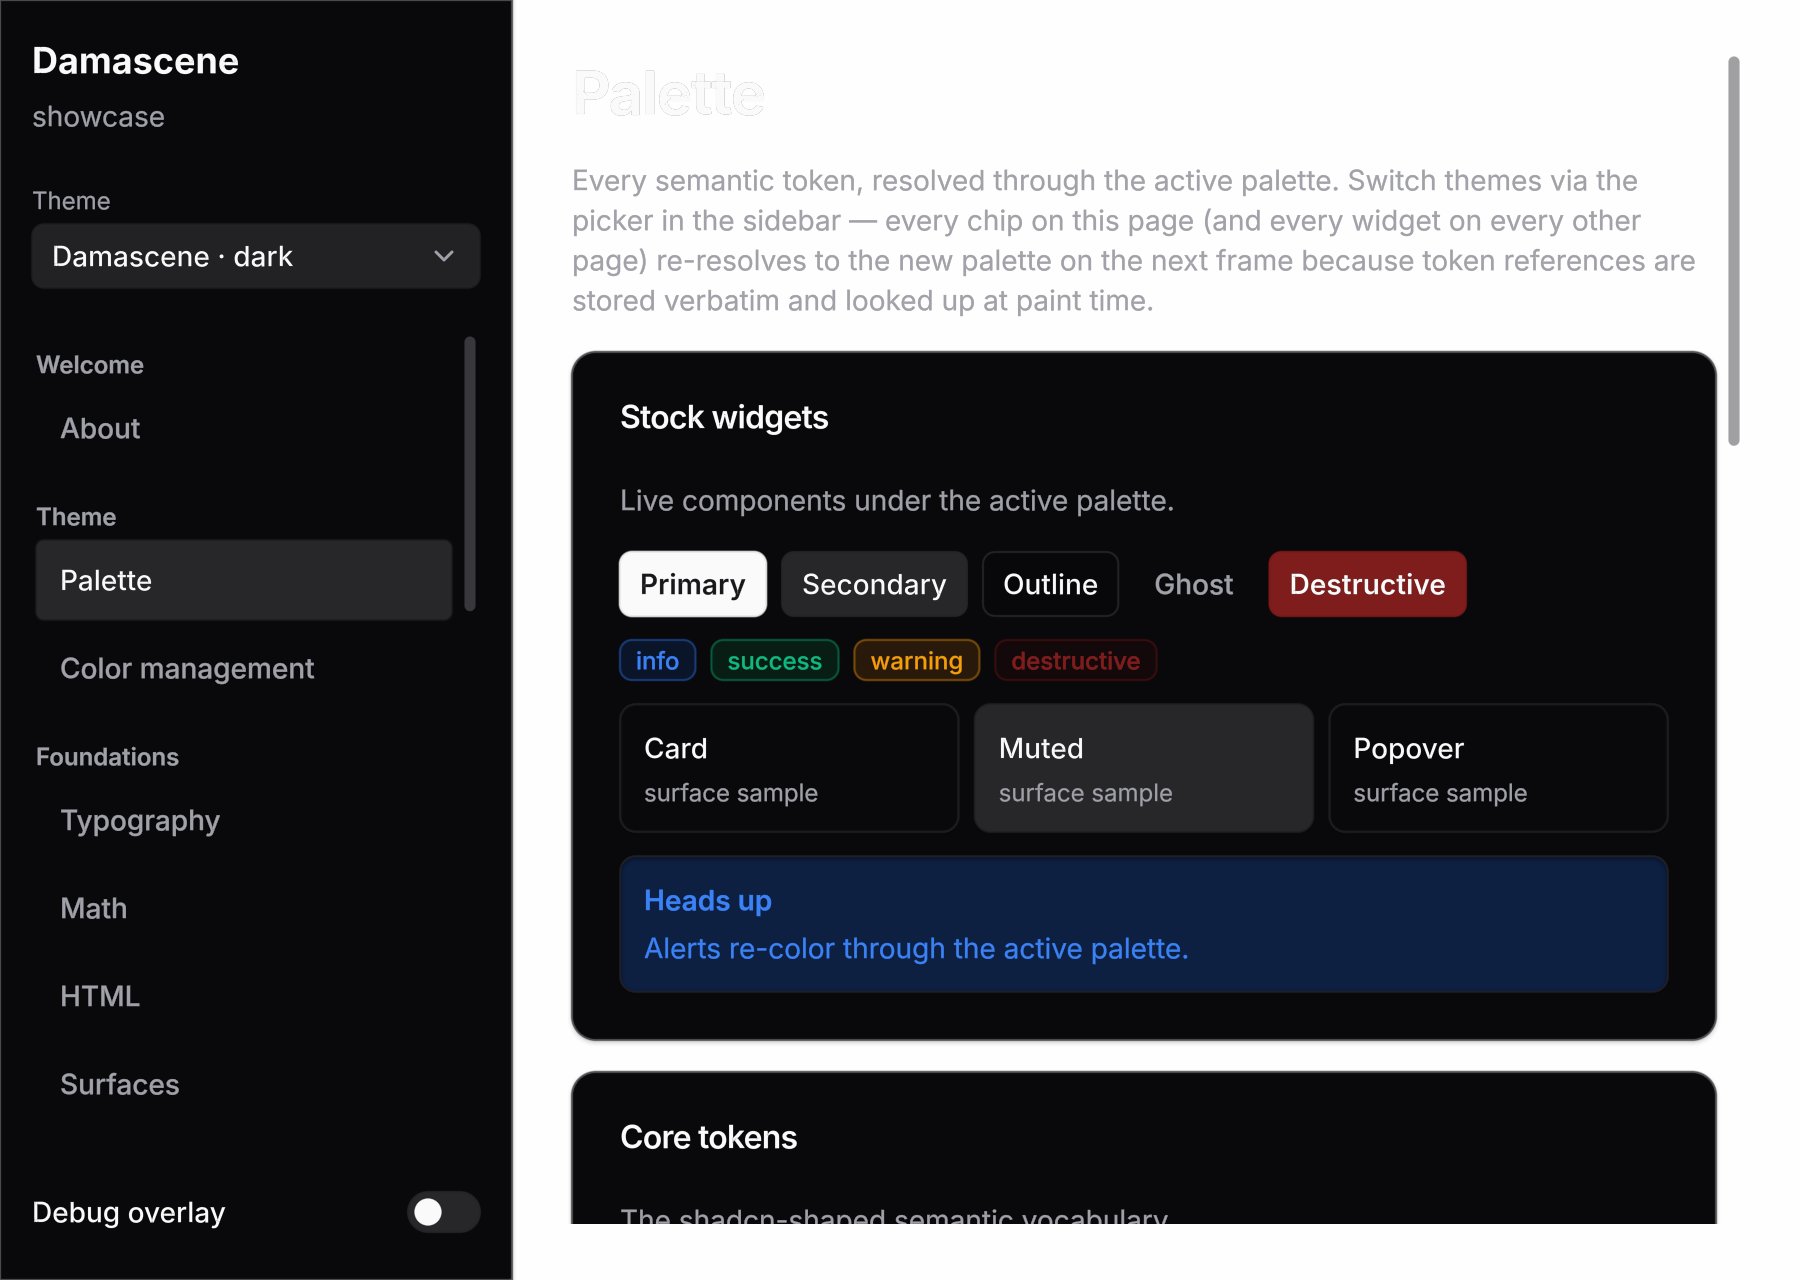
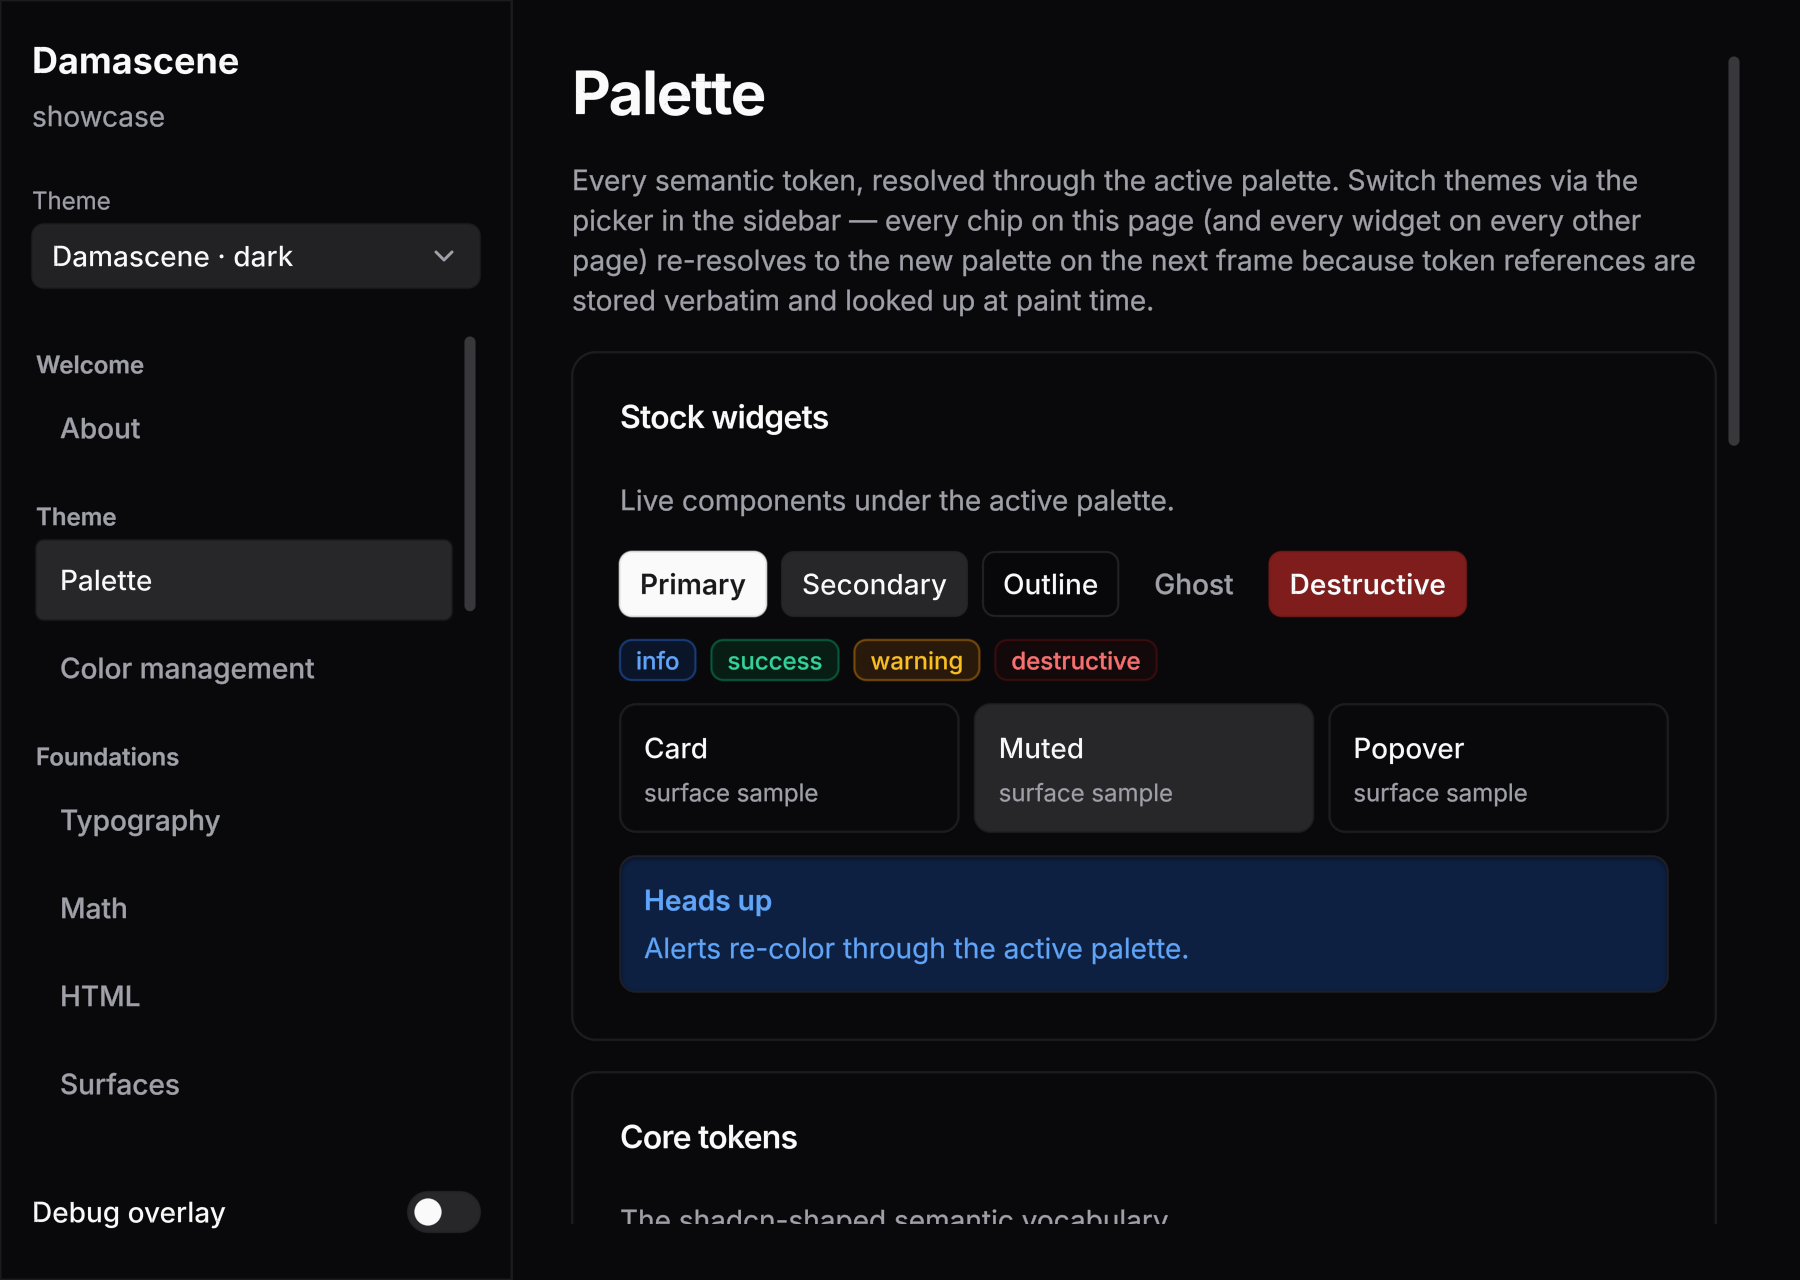
assets: regenerate the gallery from fixed render tools
Every committed render carried a shared tool bug: the clear color
divided Color's 0..1 float channels by 255, producing a transparent
near-black clear (alpha 1/255) — viewers and GitHub composited the
unpainted page ground over white, which is why the gallery images
showed ghost-white headings on a white void. The July asset regen
shipped that look. All eight render tools now use the channels
directly, and the hero/sections tools also hand the runner the app's
theme (set_theme) and clear to the resolved palette background — the
paint-time halves of the host contract they were skipping.

Asset refresh, all regenerated opaque and current:
- showcase_settings.png DELETED — a May render of a section that no
  longer exists, still carrying pre-rename Aetna branding. The
  winit-wgpu and vulkano READMEs now show the Text & value section
  (assets/showcase_text_inputs.png).
- showcase_forms.png → showcase_booleans.png: the root gallery's
  "Form primitives" cell now shows the Booleans section its caption
  actually describes (the Forms section is form_item scaffolding).
- showcase_glass.png → liquid_glass_lab.png: the old image was the
  top of the Surfaces page with the glass card below the fold; the
  gallery and the damascene-wgpu README now show the liquid-glass
  material lab actually doing backdrop sampling.
- showcase_palette.png refreshed (picks up the *_TINT_FOREGROUND
  status tones); damascene_hero.png re-rendered opaque.
[…]

diff --git a/tools/src/bin/render_showcase_sections.rs b/tools/src/bin/render_showcase_sections.rs
@@ -109,6 +109,7 @@ fn main() -> Result<(), Box<dyn std::error::Error>> {
         let theme = app.theme();
         let cx = BuildCx::new(&theme);
         let tree = app.build(&cx);
+        renderer.set_theme(theme.clone());
         renderer.push_toasts(app.drain_toasts());
         renderer.prepare(&device, &queue, tree, viewport, scale_factor);
 
@@ -121,7 +122,7 @@ fn main() -> Result<(), Box<dyn std::error::Error>> {
             &target,
             &target_view,
             Some(&msaa.view),
-            wgpu::LoadOp::Clear(bg_color()),
+            wgpu::LoadOp::Clear(bg_color(theme.palette())),
         );
         encoder.copy_texture_to_buffer(
             wgpu::TexelCopyTextureInfo {
@@ -179,13 +180,20 @@ fn main() -> Result<(), Box<dyn std::error::Error>> {
     Ok(())
 }
 
-fn bg_color() -> wgpu::Color {
-    let c = damascene_core::tokens::BACKGROUND;
+/// Clear to the app theme's background, the way every host does.
+/// (The paint-time half of the same contract is `set_theme` above:
+/// without it the runner resolved token colors against the default
+/// palette, painting the page ground light under the dark theme —
+/// the shipped gallery images had ghost-white headings on a white
+/// void because build-time text colors came from the dark theme
+/// while paint-time token fills resolved light.)
+fn bg_color(palette: &damascene_core::Palette) -> wgpu::Color {
+    let c = palette.resolve(palette.background);
     wgpu::Color {
-        r: srgb_to_linear(c.r as f64 / 255.0),
-        g: srgb_to_linear(c.g as f64 / 255.0),
-        b: srgb_to_linear(c.b as f64 / 255.0),
-        a: c.a as f64 / 255.0,
+        r: srgb_to_linear(c.r as f64),
+        g: srgb_to_linear(c.g as f64),
+        b: srgb_to_linear(c.b as f64),
+        a: c.a as f64,
     }
 }
 

diff --git a/tools/src/bin/render_liquid_glass.rs b/tools/src/bin/render_liquid_glass.rs
@@ -64,6 +64,10 @@ fn fixture() -> El {
             panel(Color::srgb_u8(240, 200, 60)),
         ])
         .gap(0.0)
+        // Hug-width with all-Fill children resolves to zero width
+        // (CSS shrink-to-fit); the backdrop row must claim the
+        // overlay's width explicitly.
+        .width(Size::Fill(1.0))
         .height(Size::Fill(1.0))
         // Stretch lets Fill children claim full cross-axis extent.
         // Without it, the row's default Center align collapses
@@ -75,9 +79,16 @@ fn fixture() -> El {
         // space rather than collapsing to Hug.
         column([
             spacer(),
-            row([spacer(), glass_card(), spacer()]).height(Size::Hug),
+            row([spacer(), glass_card(), spacer()])
+                // Fill width here and on the column: a Hug container
+                // with Fill spacers collapses to its content, which
+                // pins the card to the overlay's top-left instead of
+                // centering it.
+                .width(Size::Fill(1.0))
+                .height(Size::Hug),
             spacer(),
         ])
+        .width(Size::Fill(1.0))
         .height(Size::Fill(1.0)),
     ])
 }
@@ -293,10 +304,10 @@ fn main() -> Result<(), Box<dyn std::error::Error>> {
 fn bg_color() -> wgpu::Color {
     let c = damascene_core::tokens::BACKGROUND;
     wgpu::Color {
-        r: srgb_to_linear(c.r as f64 / 255.0),
-        g: srgb_to_linear(c.g as f64 / 255.0),
-        b: srgb_to_linear(c.b as f64 / 255.0),
-        a: c.a as f64 / 255.0,
+        r: srgb_to_linear(c.r as f64),
+        g: srgb_to_linear(c.g as f64),
+        b: srgb_to_linear(c.b as f64),
+        a: c.a as f64,
     }
 }
 

diff --git a/tools/src/bin/render_hero.rs b/tools/src/bin/render_hero.rs
@@ -75,6 +75,7 @@ fn main() -> Result<(), Box<dyn std::error::Error>> {
     let theme = app.theme();
     let cx = BuildCx::new(&theme);
     let tree = app.build(&cx);
+    renderer.set_theme(theme.clone());
     renderer.prepare(&device, &queue, tree, viewport, scale_factor);
 
     let mut encoder = device.create_command_encoder(&wgpu::CommandEncoderDescriptor {
@@ -159,10 +160,10 @@ fn main() -> Result<(), Box<dyn std::error::Error>> {
 fn bg_color() -> wgpu::Color {
     let c = damascene_core::Palette::radix_slate_blue_dark().background;
     wgpu::Color {
-        r: srgb_to_linear(c.r as f64 / 255.0),
-        g: srgb_to_linear(c.g as f64 / 255.0),
-        b: srgb_to_linear(c.b as f64 / 255.0),
-        a: c.a as f64 / 255.0,
+        r: srgb_to_linear(c.r as f64),
+        g: srgb_to_linear(c.g as f64),
+        b: srgb_to_linear(c.b as f64),
+        a: c.a as f64,
     }
 }
 

diff --git a/tools/src/bin/render_showcase_media.rs b/tools/src/bin/render_showcase_media.rs
@@ -254,10 +254,10 @@ fn hsv_to_rgb(h: f32, s: f32, v: f32) -> (f32, f32, f32) {
 fn bg_color(theme: &Theme) -> wgpu::Color {
     let c = theme.palette().resolve(damascene_core::tokens::BACKGROUND);
     wgpu::Color {
-        r: srgb_to_linear(c.r as f64 / 255.0),
-        g: srgb_to_linear(c.g as f64 / 255.0),
-        b: srgb_to_linear(c.b as f64 / 255.0),
-        a: c.a as f64 / 255.0,
+        r: srgb_to_linear(c.r as f64),
+        g: srgb_to_linear(c.g as f64),
+        b: srgb_to_linear(c.b as f64),
+        a: c.a as f64,
     }
 }
 

diff --git a/tools/src/bin/render_icon_gallery.rs b/tools/src/bin/render_icon_gallery.rs
@@ -183,10 +183,10 @@ fn material_arg() -> Result<IconMaterial, Box<dyn std::error::Error>> {
 fn bg_color() -> wgpu::Color {
     let c = damascene_core::tokens::BACKGROUND;
     wgpu::Color {
-        r: srgb_to_linear(c.r as f64 / 255.0),
-        g: srgb_to_linear(c.g as f64 / 255.0),
-        b: srgb_to_linear(c.b as f64 / 255.0),
-        a: c.a as f64 / 255.0,
+        r: srgb_to_linear(c.r as f64),
+        g: srgb_to_linear(c.g as f64),
+        b: srgb_to_linear(c.b as f64),
+        a: c.a as f64,
     }
 }
 

diff --git a/tools/src/bin/render_liquid_glass_lab.rs b/tools/src/bin/render_liquid_glass_lab.rs
@@ -163,10 +163,10 @@ fn main() -> Result<(), Box<dyn std::error::Error>> {
 fn bg_color() -> wgpu::Color {
     let c = damascene_core::tokens::BACKGROUND;
     wgpu::Color {
-        r: srgb_to_linear(c.r as f64 / 255.0),
-        g: srgb_to_linear(c.g as f64 / 255.0),
-        b: srgb_to_linear(c.b as f64 / 255.0),
-        a: c.a as f64 / 255.0,
+        r: srgb_to_linear(c.r as f64),
+        g: srgb_to_linear(c.g as f64),
+        b: srgb_to_linear(c.b as f64),
+        a: c.a as f64,
     }
 }
 

diff --git a/tools/src/bin/render_showcase_glass.rs b/tools/src/bin/render_showcase_glass.rs
@@ -159,10 +159,10 @@ fn main() -> Result<(), Box<dyn std::error::Error>> {
 fn bg_color() -> wgpu::Color {
     let c = damascene_core::tokens::BACKGROUND;
     wgpu::Color {
-        r: srgb_to_linear(c.r as f64 / 255.0),
-        g: srgb_to_linear(c.g as f64 / 255.0),
-        b: srgb_to_linear(c.b as f64 / 255.0),
-        a: c.a as f64 / 255.0,
+        r: srgb_to_linear(c.r as f64),
+        g: srgb_to_linear(c.g as f64),
+        b: srgb_to_linear(c.b as f64),
+        a: c.a as f64,
     }
 }
 

diff --git a/tools/src/bin/render_text_quality.rs b/tools/src/bin/render_text_quality.rs
@@ -191,10 +191,10 @@ fn main() -> Result<(), Box<dyn std::error::Error>> {
 fn bg_color() -> wgpu::Color {
     let c = damascene_core::tokens::BACKGROUND;
     wgpu::Color {
-        r: srgb_to_linear(c.r as f64 / 255.0),
-        g: srgb_to_linear(c.g as f64 / 255.0),
-        b: srgb_to_linear(c.b as f64 / 255.0),
-        a: c.a as f64 / 255.0,
+        r: srgb_to_linear(c.r as f64),
+        g: srgb_to_linear(c.g as f64),
+        b: srgb_to_linear(c.b as f64),
+        a: c.a as f64,
     }
 }
 

diff --git a/README.md b/README.md
@@ -185,8 +185,8 @@ The hero shot above is the app-shaped demo. Every image below is a headless rend
 
 | Form primitives | Backdrop sampling | Animated palette |
 |---|---|---|
-| ![Form preferences — progress, checkboxes, radio group, switches](assets/showcase_forms.png) | ![Liquid-glass section — custom shader sampling the backdrop](assets/showcase_glass.png) | ![Animated palette — spring on tap, status fade-in](assets/showcase_palette.png) |
-| `switch` / `checkbox` / `radio_group` / `progress` over the `card` + `tabs_list` skeleton from the showcase fixture. | `liquid_glass.wgsl` consuming the `@group(1)` backdrop sampler — runs identically across wgpu, vulkano, and WebGPU. | `.animate(timing)` on `.scale` + `.translate` plus the eased press / hover envelopes the library writes for free. |
+| ![Booleans section — switches, checkboxes, radio group](assets/showcase_booleans.png) | ![Liquid-glass material lab — custom WGSL sampling the backdrop](assets/liquid_glass_lab.png) | ![Animated palette — spring on tap, status fade-in](assets/showcase_palette.png) |
+| `switch` / `checkbox` / `radio_group` — controlled boolean primitives from the showcase's Booleans section, with the library's animated state changes. | the liquid-glass material family consuming the `@group(1)` backdrop sampler — runs identically across wgpu, vulkano, and WebGPU. | `.animate(timing)` on `.scale` + `.translate` plus the eased press / hover envelopes the library writes for free. |
 
 ## Repository tour
 

diff --git a/crates/damascene-vulkano/README.md b/crates/damascene-vulkano/README.md
@@ -2,7 +2,7 @@
 
 # damascene-vulkano
 
-![Showcase — Settings section. The same fixture renders identically through wgpu and vulkano](https://raw.githubusercontent.com/computer-whisperer/damascene/main/assets/showcase_settings.png)
+![Showcase — Text & value section. The same fixture renders identically through wgpu and vulkano](https://raw.githubusercontent.com/computer-whisperer/damascene/main/assets/showcase_text_inputs.png)
 
 Native Vulkan backend for Damascene using `vulkano`.
 

diff --git a/crates/damascene-winit-wgpu/README.md b/crates/damascene-winit-wgpu/README.md
@@ -2,7 +2,7 @@
 
 # damascene-winit-wgpu
 
-![Settings section — running through the native winit + wgpu host](https://raw.githubusercontent.com/computer-whisperer/damascene/main/assets/showcase_settings.png)
+![Showcase — Text & value section, rendered through the native winit + wgpu host](https://raw.githubusercontent.com/computer-whisperer/damascene/main/assets/showcase_text_inputs.png)
 
 Optional native desktop host for Damascene apps using `winit` and `wgpu`.
 

diff --git a/crates/damascene-fixtures/README.md b/crates/damascene-fixtures/README.md
@@ -2,7 +2,7 @@
 
 # damascene-fixtures
 
-![Showcase — Forms section: progress bar, checkboxes, radio group](https://raw.githubusercontent.com/computer-whisperer/damascene/main/assets/showcase_forms.png)
+![Showcase — Booleans section: switches, checkboxes, radio group](https://raw.githubusercontent.com/computer-whisperer/damascene/main/assets/showcase_booleans.png)
 
 Backend-neutral Damascene fixture apps and render trees.
 
